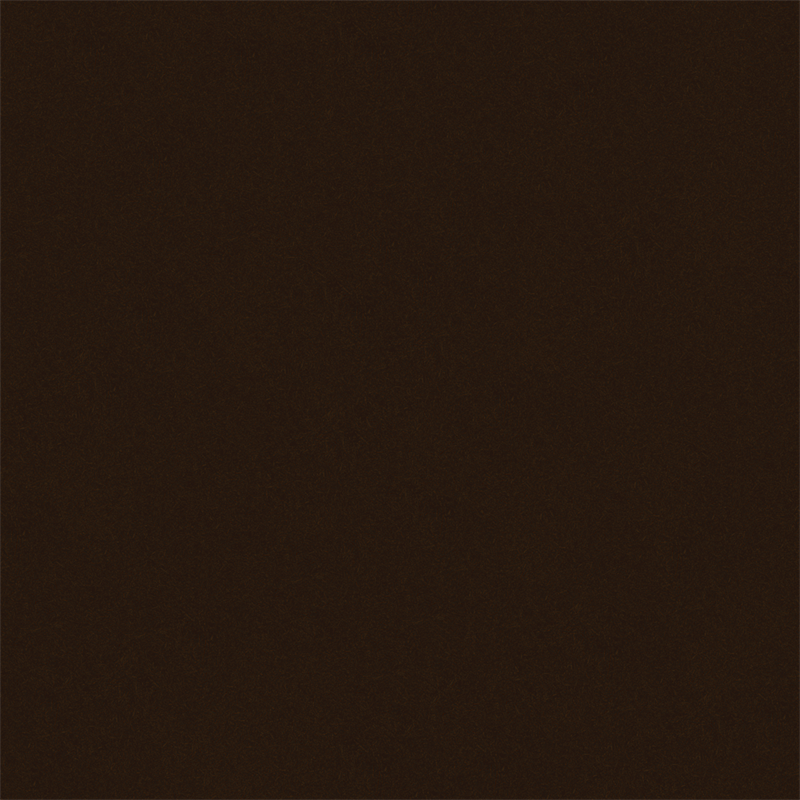
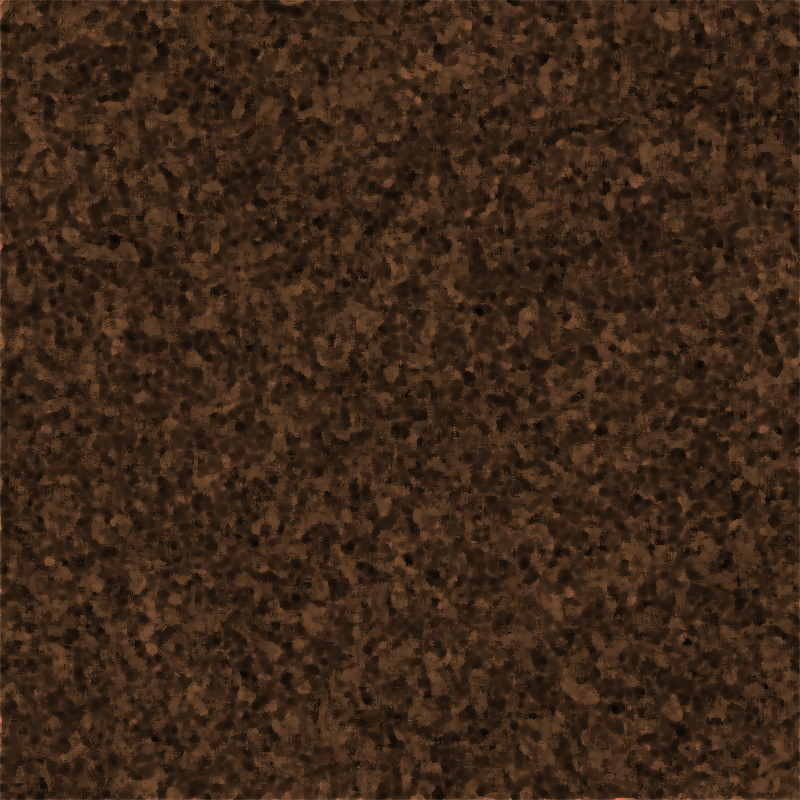
New dirt textures, some shiet fixed some shiet not fixed

diff --git a/Player.cpp b/Player.cpp
@@ -25,6 +25,7 @@ Player::Player(int identifier, sf::Vector2f pos, LD48* p) {
     spriteSize.x =  Resources::player.getSize().x/4;
     spriteSize.y =  Resources::player.getSize().y/4;
     player.setTexture(Resources::player);
+    player.setScale(spriteSize.x/pare->getWindow()->getSize().x*2, spriteSize.x/pare->getWindow()->getSize().x*2);
 }
 
 sf::Vector2f Player::getPosition(){

diff --git a/Board.cpp b/Board.cpp
@@ -52,7 +52,7 @@ void Board::init () {
 }
 
 void Board::update() {
-    sf::IntRect rectPlayerMovement[2];
+    //sf::IntRect rectPlayerMovement[2];
 
     currPlayerPos[0] = game->getPlayer(0)->getPosition();
     currPlayerPos[1] = game->getPlayer(1)->getPosition();

diff --git a/utils.hpp b/utils.hpp
@@ -32,7 +32,11 @@ enum powerUp {
 };
  
 enum deBuff {
-  dB_Speed, dB_Strength, qtt_deBuff
+    dB_Speed, dB_Strength, qtt_deBuff
+};
+
+enum pointObject {
+    pO_one, pO_two, pO_three, qtt_pointObject
 };
 
 enum dir {
